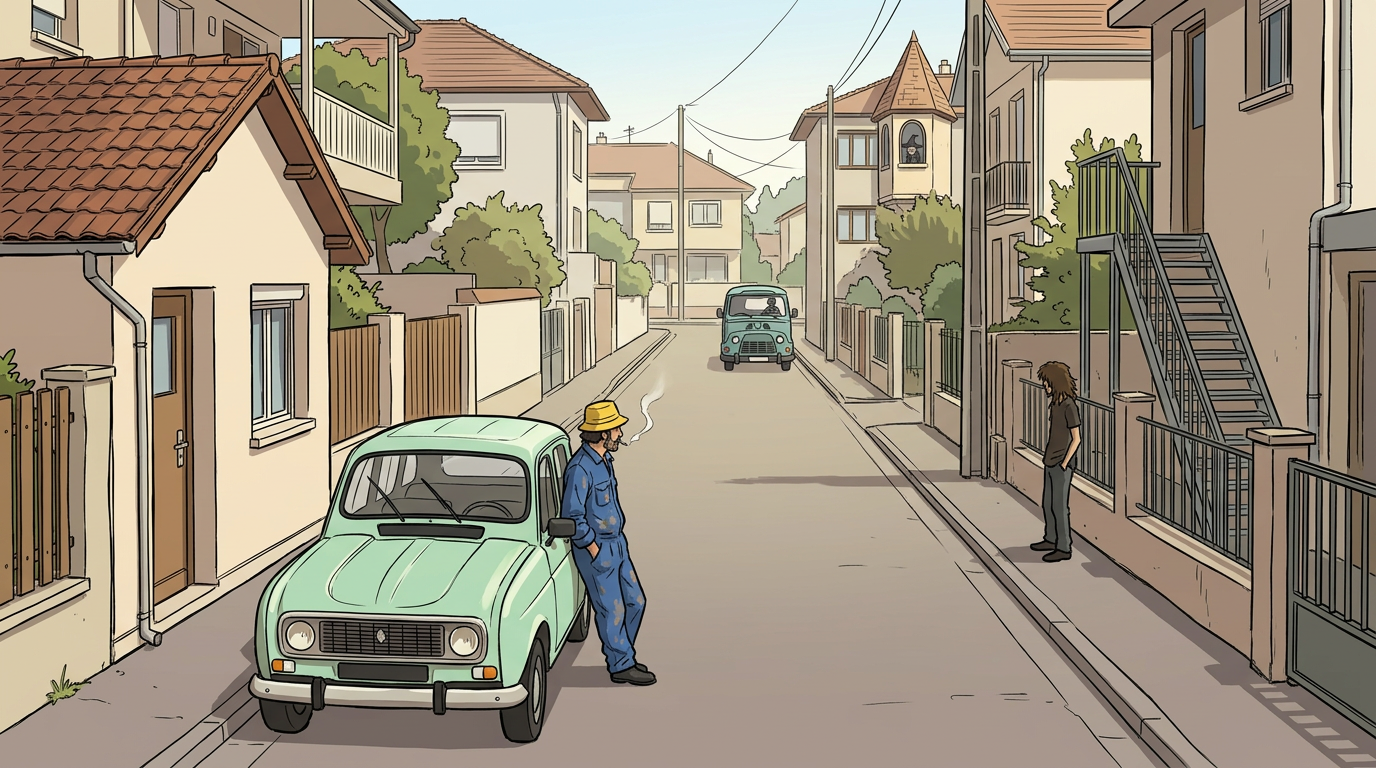
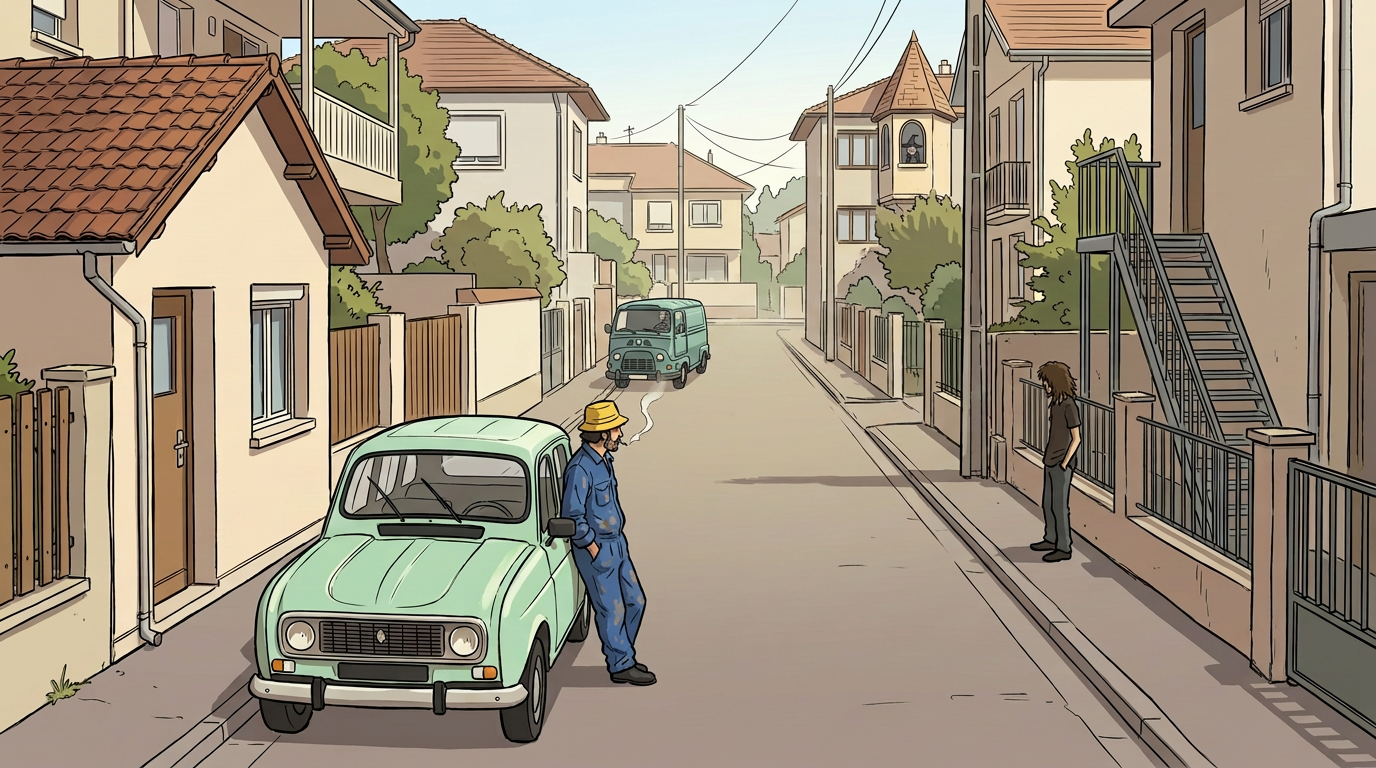
Correct Estafette position in opening storyboard

Changed region(s): [[0.4375, 0.3438, 0.5938, 0.5312], [0.75, 0.2812, 0.7812, 0.3125], [0.4375, 0.5625, 0.4688, 0.5938]]

diff --git a/docs/storyboard.md b/docs/storyboard.md
@@ -27,7 +27,7 @@
 
 | Plan | Temps | Paroles | Image, jeu et caméra |
 |---|---:|---|---|
-| P01 | 00:00–00:05 | Instrumental | Plan général de la rue. Travelling avant lent depuis le point de vue du narrateur ; parallaxe discrète entre façades et premier plan. Présenter clairement la géographie, sans texte ajouté. [Image-clé de travail, à valider](../assets/storyboards/p01-establishing-street.png). |
+| P01 | 00:00–00:05 | Instrumental | Plan général de la rue. Travelling avant lent depuis le point de vue du narrateur ; parallaxe discrète entre façades et premier plan. Présenter clairement la géographie, sans texte ajouté ; l'Estafette est garée le long du trottoir gauche, du même côté que la 4L. [Image-clé](../assets/storyboards/p01-establishing-street.png). |
 | P02 | 00:05–00:10 | Instrumental | Glissement vers la maison de Jeannot et sa 4L vert menthe, rouillée mais intacte. Jeannot respire, décale son poids et tient sa cigarette ; Enji traverse le cadre pour son gag. |
 | P03 | 00:10–00:16,35 | Instrumental | Pan vers la maison voisine et l'escalier d'Henri, puis vers la tourelle de la sorcière et l'autre bout de la rue où se trouve Diego. Finir le mouvement sur Jeannot, prêt pour la première entrée vocale. |
 
